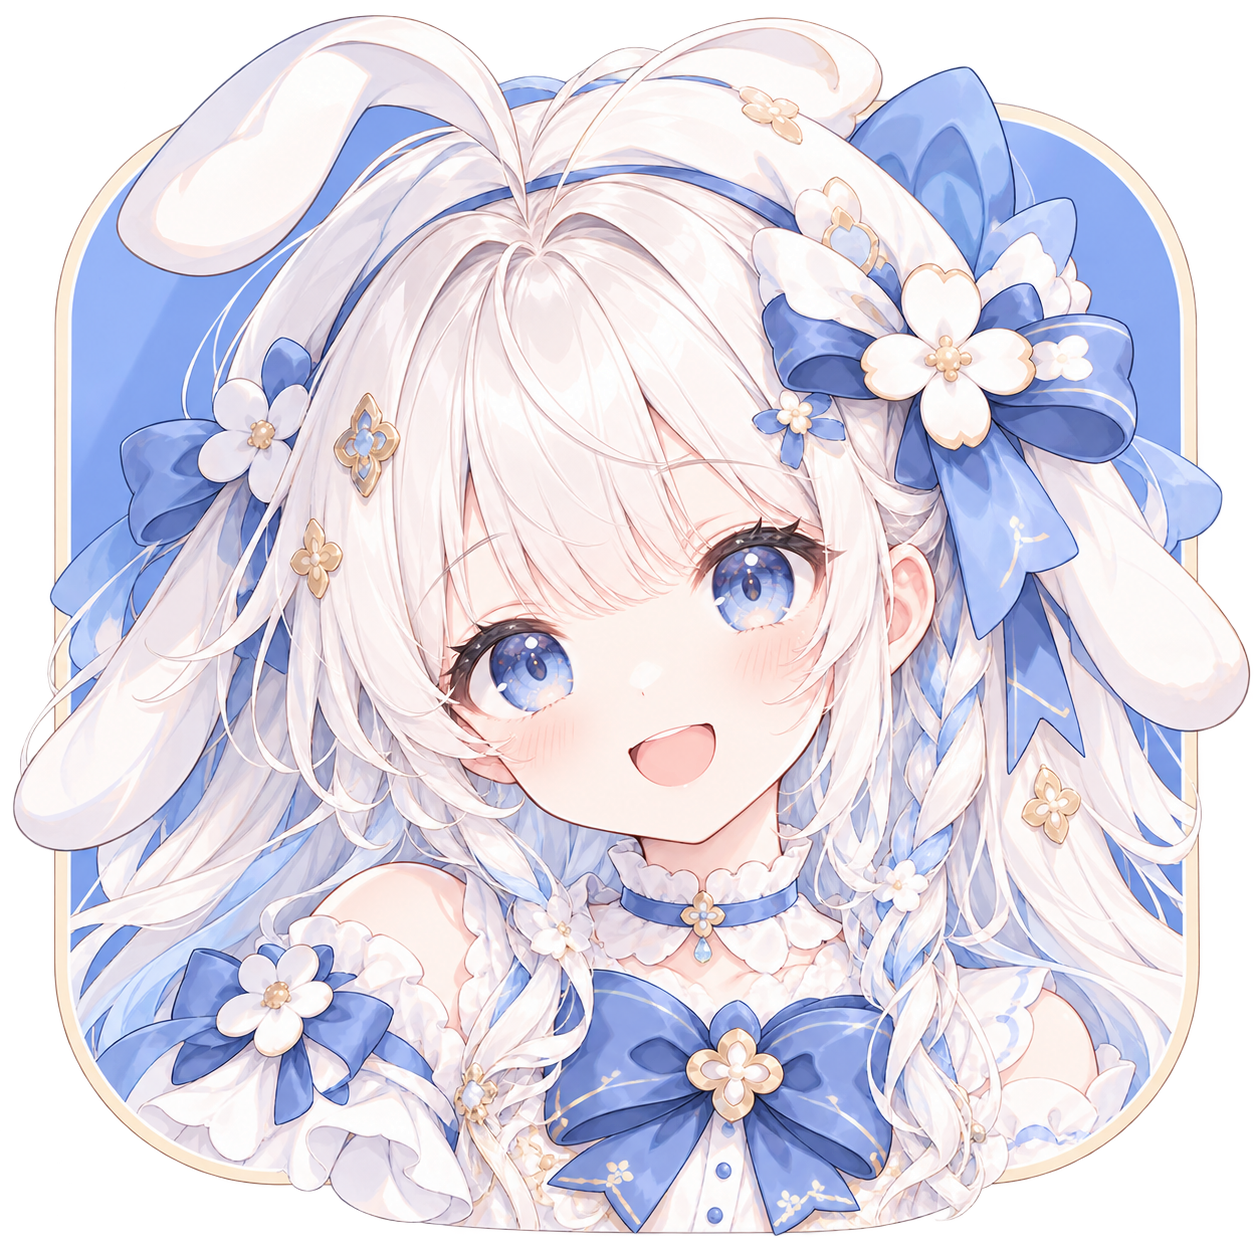
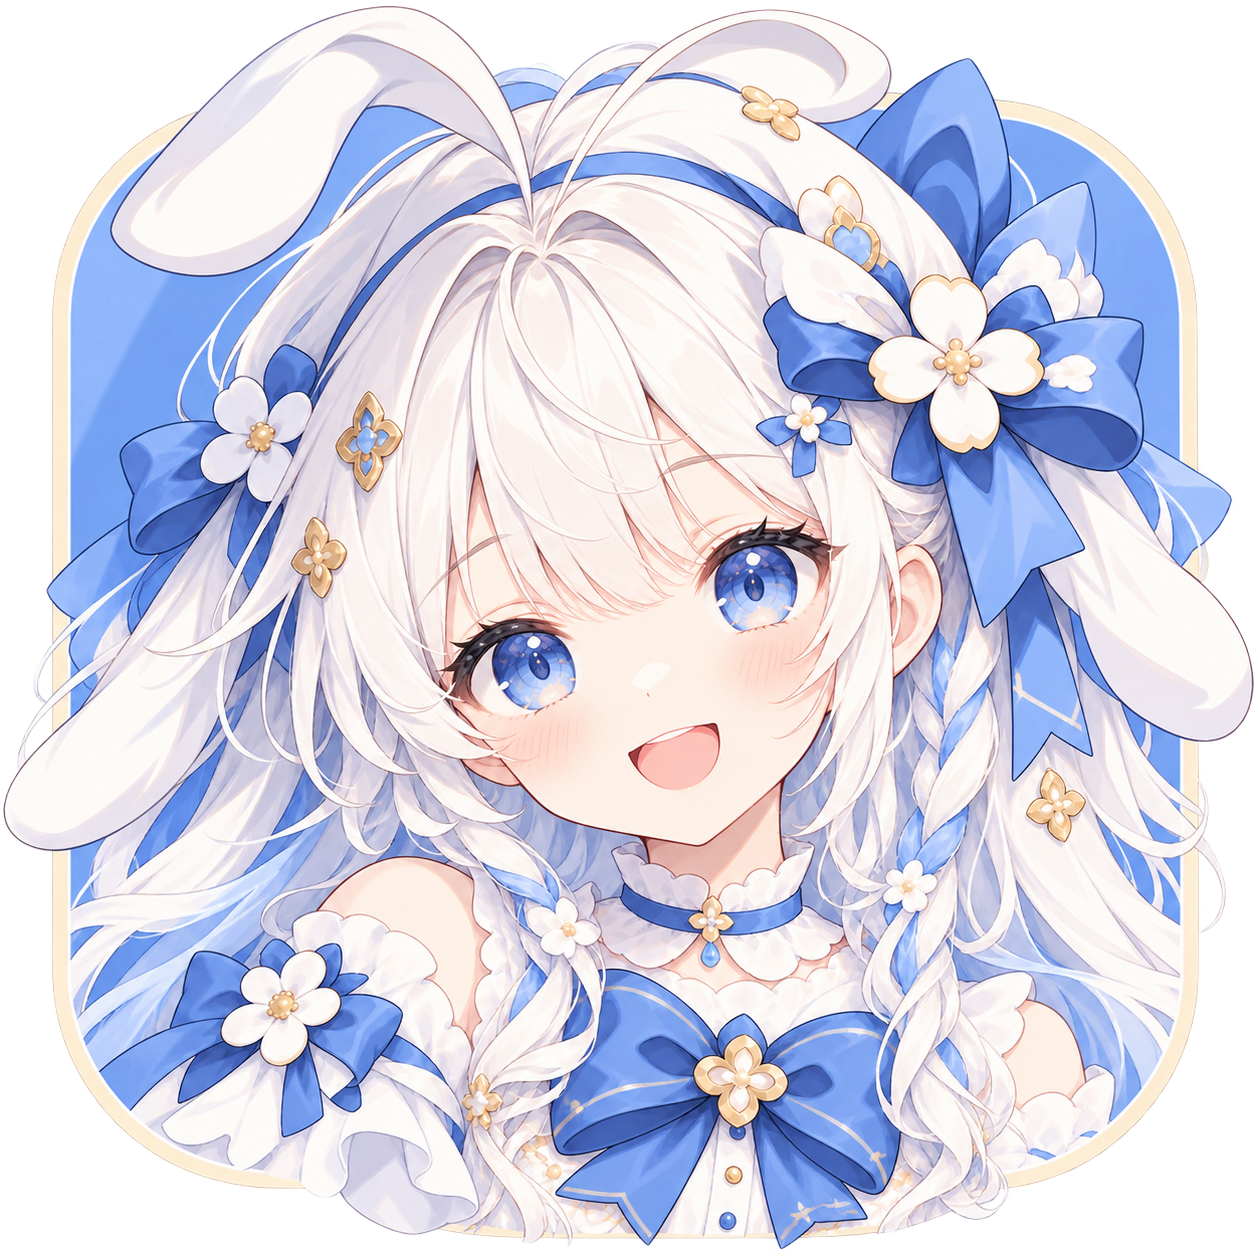
fix(gui): 修正启动页头像缩放并更新吉祥物素材
- 按设备像素逐级缩小启动页头像，复用当前尺寸的透明图像缓存
- 补充细密纹理、透明边缘和 DPI 切换的绘制回归
- 更新应用头像与 README 标题图为日系板绘风格

diff --git a/pixivdownload-app/src/test/java/top/sywyar/pixivdownload/gui/bootstrap/StartupSplashTest.java b/pixivdownload-app/src/test/java/top/sywyar/pixivdownload/gui/bootstrap/StartupSplashTest.java
@@ -93,6 +93,57 @@ class StartupSplashTest {
                 (pixel & 0xffffff) != (image.getRGB(30, 30) & 0xffffff))).isTrue();
     }
 
+    @ParameterizedTest
+    @ValueSource(doubles = {1, 1.25, 1.5, 2})
+    @DisplayName("细密图标缩小时融合明暗，透明像素不产生色边")
+    void downsamplingFiltersFineDetailAndPreservesTransparency(double scale) {
+        for (boolean transparent : List.of(false, true)) {
+            var icon = new BufferedImage(1024, 1024, BufferedImage.TYPE_INT_ARGB);
+            for (int y = 0; y < icon.getHeight(); y++) {
+                for (int x = 0; x < icon.getWidth(); x++) {
+                    icon.setRGB(x, y, x % 2 == 0 ? 0xffffffff : transparent ? 0x00ff0000 : 0xff000000);
+                }
+            }
+            for (boolean dark : List.of(false, true)) {
+                var appearance = new StartupAppearance(dark, false, true, 1);
+                var view = new StartupSplashView(icon, appearance, "Loading");
+                var layout = view.arrange(new Dimension(440, 280));
+                var image = render(view, scale);
+                int centerX = (int) (layout.width() * scale / 2);
+                int centerY = (int) ((layout.padding() + layout.iconSize() / 2) * scale);
+                int surface = StartupSplashColors.forAppearance(appearance).surface();
+                for (int y = centerY - 8; y < centerY + 8; y++) {
+                    for (int x = centerX - 8; x < centerX + 8; x++) {
+                        int pixel = image.getRGB(x, y);
+                        for (int shift : List.of(0, 8, 16)) {
+                            int expected = transparent ? (255 + ((surface >> shift) & 255)) / 2 : 128;
+                            assertThat((pixel >> shift) & 255).isBetween(expected - 3, expected + 3);
+                        }
+                    }
+                }
+            }
+        }
+    }
+
+    @Test
+    @DisplayName("切换 DPI 与图标布局后重绘匹配新视图，不复用旧尺寸图像")
+    void iconCacheTracksDeviceScaleAndLayout() throws Exception {
+        BufferedImage icon;
+        try (var input = StartupSplash.class.getResourceAsStream("/bootstrap/icon.png")) {
+            icon = ImageIO.read(input);
+        }
+        var appearance = new StartupAppearance(true, false, true, 1);
+        var reused = new StartupSplashView(icon, appearance, "Loading");
+        for (Dimension space : List.of(new Dimension(440, 280), new Dimension(260, 180), new Dimension(440, 280))) {
+            reused.arrange(space);
+            for (double scale : List.of(1d, 1.25d, 2d, 1d)) {
+                var fresh = new StartupSplashView(icon, appearance, "Loading");
+                fresh.arrange(space);
+                assertThat(pixels(render(reused, scale))).isEqualTo(pixels(render(fresh, scale)));
+            }
+        }
+    }
+
     @Test
     @DisplayName("负坐标副屏、任务栏和过小工作区都限制窗口边界")
     void fitsTheUsableMonitorArea() {
@@ -134,9 +185,14 @@ class StartupSplashTest {
     static BufferedImage render(StartupAppearance appearance, int frame, double scale) {
         String status = MessageBundles.get(Locale.ENGLISH, "gui.launcher.splash.plugins");
         var view = new StartupSplashView(null, appearance, status);
-        var layout = view.arrange(new Dimension(440, 280));
+        view.arrange(new Dimension(440, 280));
         view.update(appearance, status, frame);
-        var image = new BufferedImage((int) Math.ceil(layout.width() * scale), (int) Math.ceil(layout.height() * scale), BufferedImage.TYPE_INT_ARGB);
+        return render(view, scale);
+    }
+
+    private static BufferedImage render(StartupSplashView view, double scale) {
+        var size = view.getPreferredSize();
+        var image = new BufferedImage((int) Math.ceil(size.width * scale), (int) Math.ceil(size.height * scale), BufferedImage.TYPE_INT_ARGB);
         var graphics = image.createGraphics();
         graphics.scale(scale, scale);
         try { view.paint(graphics); }

diff --git a/pixivdownload-app/src/main/java/top/sywyar/pixivdownload/gui/bootstrap/StartupSplashView.java b/pixivdownload-app/src/main/java/top/sywyar/pixivdownload/gui/bootstrap/StartupSplashView.java
@@ -32,6 +32,7 @@ final class StartupSplashView extends Canvas {
     private String status;
     private Layout layout;
     private BufferedImage buffer;
+    private BufferedImage scaledIcon;
     private int frame;
 
     StartupSplashView(BufferedImage icon, StartupAppearance appearance, String status) {
@@ -76,10 +77,37 @@ final class StartupSplashView extends Canvas {
             Graphics2D buffered = buffer.createGraphics();
             try {
                 buffered.scale(scaleX, scaleY);
-                draw(buffered, layout, icon, appearance, frame);
+                draw(buffered, layout, iconAtScale(scaleX, scaleY), appearance, frame);
             } finally { buffered.dispose(); }
             g.drawImage(buffer, 0, 0, layout.width(), layout.height(), null);
         } finally { g.dispose(); }
+    }
+
+    private BufferedImage iconAtScale(double scaleX, double scaleY) {
+        if (icon == null || layout.iconSize() == 0) {
+            scaledIcon = null;
+            return null;
+        }
+        int width = Math.max(1, (int) Math.ceil(layout.iconSize() * scaleX));
+        int height = Math.max(1, (int) Math.ceil(layout.iconSize() * scaleY));
+        if (scaledIcon != null && scaledIcon.getWidth() == width && scaledIcon.getHeight() == height) {
+            return scaledIcon;
+        }
+        // 大幅缩小时逐级滤除细碎纹理，预乘透明度避免透明像素的颜色污染边缘。
+        BufferedImage current = icon;
+        while (current.getWidth() != width || current.getHeight() != height) {
+            int nextWidth = Math.max(width, current.getWidth() / 2);
+            int nextHeight = Math.max(height, current.getHeight() / 2);
+            var next = new BufferedImage(nextWidth, nextHeight, BufferedImage.TYPE_INT_ARGB_PRE);
+            Graphics2D graphics = next.createGraphics();
+            try {
+                graphics.setRenderingHint(RenderingHints.KEY_INTERPOLATION, RenderingHints.VALUE_INTERPOLATION_BICUBIC);
+                graphics.drawImage(current, 0, 0, nextWidth, nextHeight, null);
+            } finally { graphics.dispose(); }
+            current = next;
+        }
+        scaledIcon = current;
+        return scaledIcon;
     }
 
     private void updateAccessibleText() {
